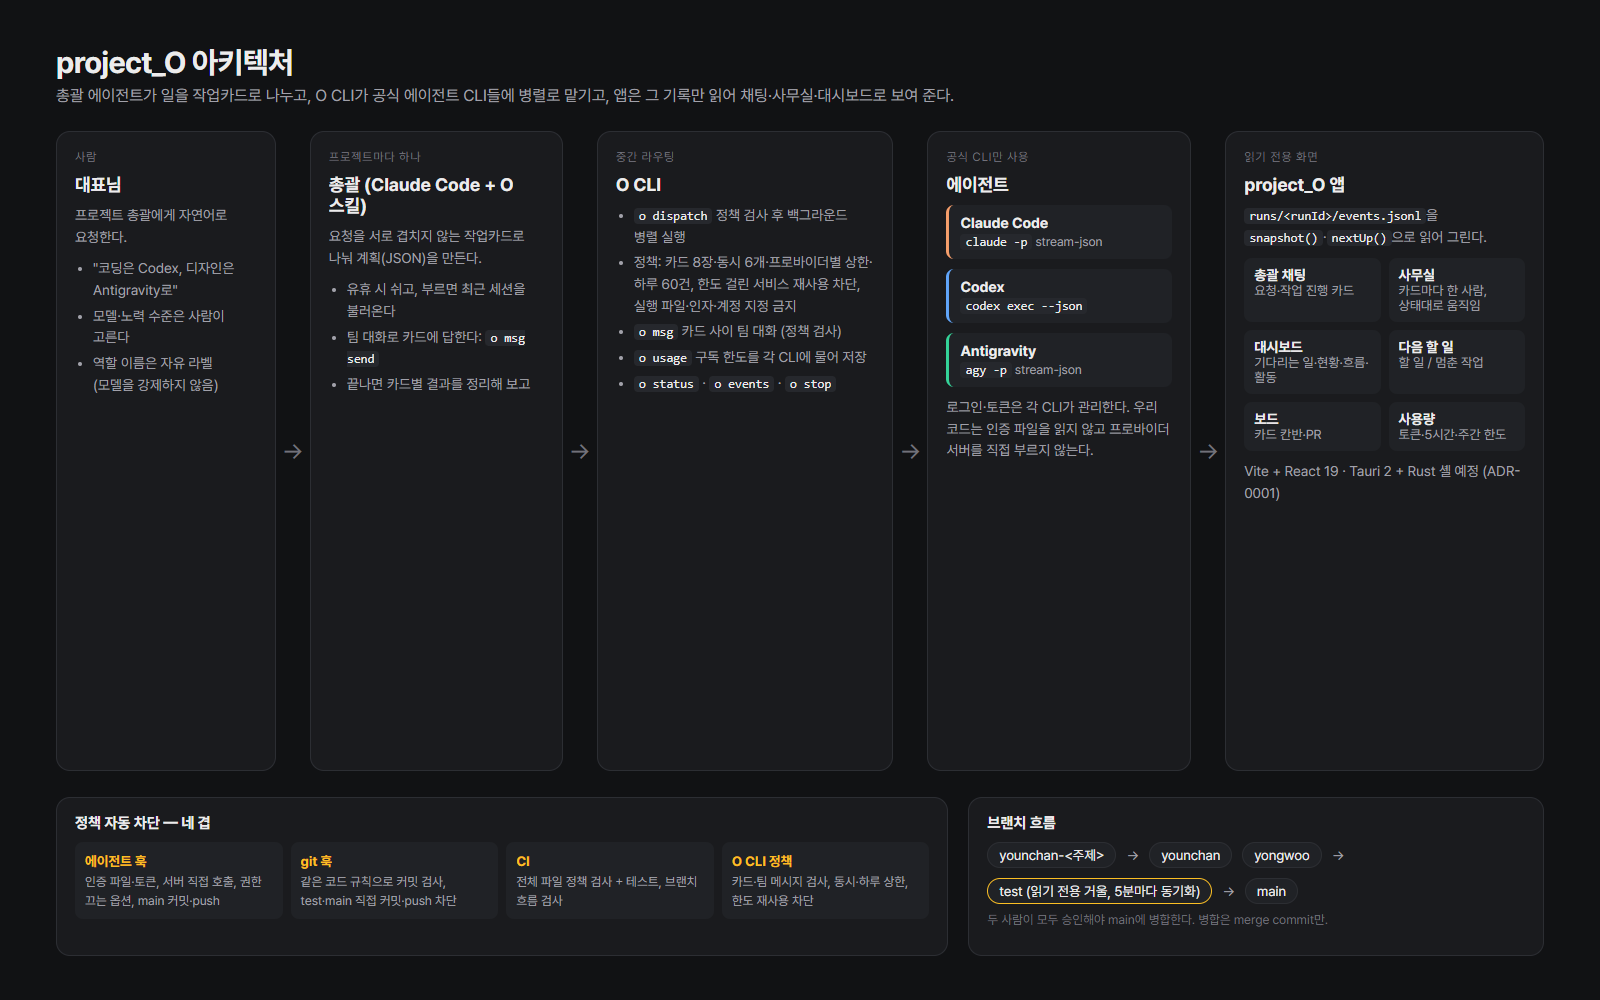
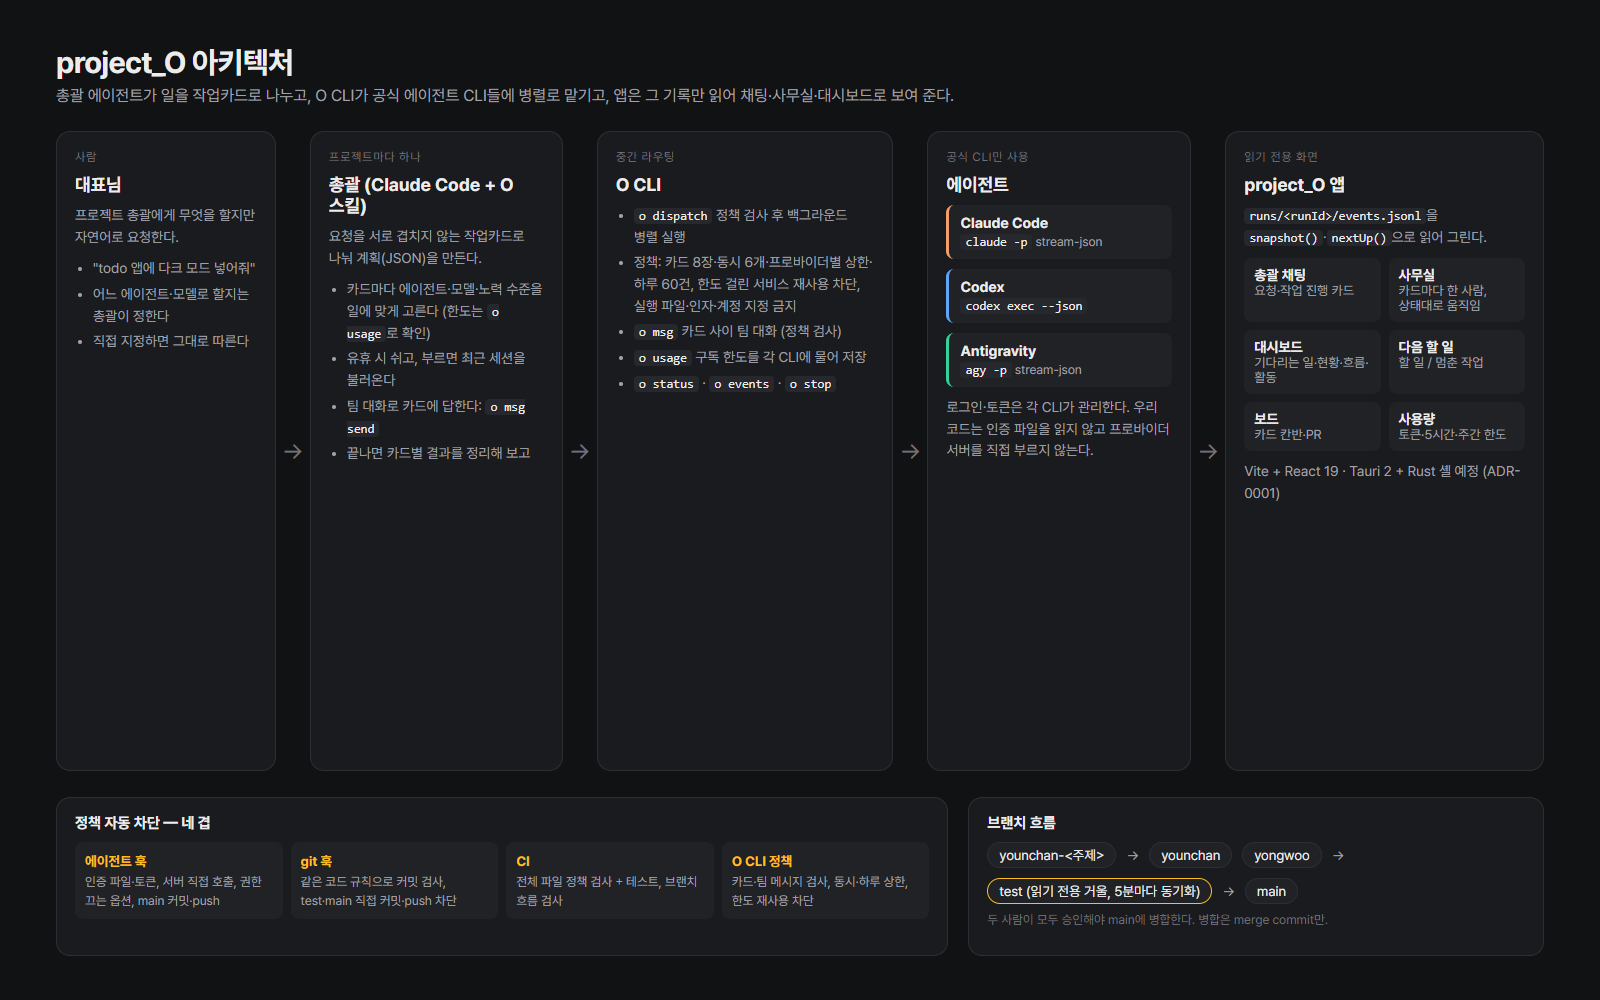
docs: 에이전트·모델은 총괄이 정한다 (D5 정정)
- O 스킬: 카드마다 에이전트·모델·노력 수준을 총괄이 일에 맞게 고른다. 사용자가 지정하면 그대로 따르고, o usage로 한도를 보고 고른 이유를 보고한다
- DESIGN.md D5, 아키텍처 그림, 캡처 02(모델을 말하지 않는 요청)를 같은 내용으로 고침

Changed region(s): [[0.2188, 0.279, 0.3438, 0.465], [0.0312, 0.217, 0.1562, 0.403], [0.125, 0.186, 0.1562, 0.217]]

diff --git a/docs/screenshots/architecture.html b/docs/screenshots/architecture.html
@@ -53,11 +53,11 @@
     <section class="box">
       <span class="tag">사람</span>
       <h2>대표님</h2>
-      <p>프로젝트 총괄에게 자연어로 요청한다.</p>
+      <p>프로젝트 총괄에게 무엇을 할지만 자연어로 요청한다.</p>
       <ul>
-        <li>"코딩은 Codex, 디자인은 Antigravity로"</li>
-        <li>모델·노력 수준은 사람이 고른다</li>
-        <li>역할 이름은 자유 라벨 (모델을 강제하지 않음)</li>
+        <li>"todo 앱에 다크 모드 넣어줘"</li>
+        <li>어느 에이전트·모델로 할지는 총괄이 정한다</li>
+        <li>직접 지정하면 그대로 따른다</li>
       </ul>
     </section>
     <div class="arrow">→</div>
@@ -66,6 +66,7 @@
       <h2>총괄 (Claude Code + O 스킬)</h2>
       <p>요청을 서로 겹치지 않는 작업카드로 나눠 계획(JSON)을 만든다.</p>
       <ul>
+        <li>카드마다 에이전트·모델·노력 수준을 일에 맞게 고른다 (한도는 <code>o usage</code>로 확인)</li>
         <li>유휴 시 쉬고, 부르면 최근 세션을 불러온다</li>
         <li>팀 대화로 카드에 답한다: <code>o msg send</code></li>
         <li>끝나면 카드별 결과를 정리해 보고</li>

diff --git a/skills/o/SKILL.md b/skills/o/SKILL.md
@@ -1,6 +1,6 @@
 ---
 name: o
-description: Split a multi-part request into work cards and hand them to agent CLIs (Codex, Antigravity, Claude) through O CLI, let the cards talk to each other and to you on the run's team channel, then watch and summarize the results. Use when the user asks to run parts of a project in parallel on different models or CLIs, or names providers/models per task.
+description: Split a multi-part request into work cards and hand them to agent CLIs (Codex, Antigravity, Claude) through O CLI, let the cards talk to each other and to you on the run's team channel, then watch and summarize the results. Use when the user asks to split project work across agents or run parts in parallel; the lead picks the agent, model and effort per card unless the user names them.
 ---
 
 # O — 작업카드 분배
@@ -24,7 +24,11 @@ description: Split a multi-part request into work cards and hand them to agent C
 }
 ```
 
-- `provider`: `claude` | `codex` | `agy`(Antigravity CLI). 모델은 **사용자가 정한 것을 그대로** `model`에 넣고, 정하지 않았으면 비워 둔다(각 CLI 기본 모델). 작업 종류로 모델을 고르지 않는다.
+- `provider`: `claude` | `codex` | `agy`(Antigravity CLI). **카드마다 어느 에이전트·모델·노력 수준(`effort`)으로 할지는 총괄이 일에 맞게 정한다.** 사용자는 무엇을 할지만 말하면 된다.
+  - 사용자가 특정 에이전트나 모델을 말한 카드는 그대로 따른다.
+  - 고르기 전에 `o usage`로 구독 한도를 보고, 한도에 가까운(90% 이상) 서비스는 피한다. 동시 실행 상한(Claude 3·Codex 3·Antigravity 2)을 넘지 않게 나눈다.
+  - 모델 이름은 그 CLI가 받는 것만 쓴다. 확실하지 않으면 `model`을 비워 CLI 기본 모델에 맡기고 `effort`로만 조절한다.
+  - 사용자에게 전달을 보고할 때 카드마다 왜 그 에이전트·모델을 골랐는지 한 줄씩 적는다.
 - `role`은 선택 사항인 사람용 이름표다("코딩", "검토" 등). 모델이나 권한과 아무 관계가 없다. 없으면 화면에 카드 id로 보인다.
 - 허용 필드는 `id, provider, task, role, model, effort`뿐이다. 실행 파일·인자·환경변수·계정은 넣을 수 없다.
 - `task`는 짧고 자족적으로 쓴다: 목표, 범위(파일·폴더), 완료 기준. 다른 카드와 주고받아야 할 것이 있으면 task에 적는다("끝나면 ui 카드에게 바꾼 파일을 알려 줄 것").

diff --git a/docs/DESIGN.md b/docs/DESIGN.md
@@ -59,7 +59,7 @@
 | D2 | Orchestrator 코드 이관 범위 | (a) `src/core` 순수 로직만 가져오기 (b) 앱 전체를 포크 (c) 새로 작성 | (a) — 화면은 새 정보구조에 맞춰 다시 짠다 |
 | D3 | 에이전트 연결 방식 | TUI 스크래핑 / 터미널 임베드 / 공식 CLI 구조화 출력 / API 키 직접 호출 | 공식 CLI 구조화 출력 — Claude `claude -p --input-format stream-json --output-format stream-json`, Codex `codex app-server`, Gemini `gemini -p --output-format stream-json`. 세부는 PoC로 확인 (§5) |
 | D4 | 여러 계정 격리 방식 | 계정별 설정 폴더 환경변수 / OS 사용자 분리 / 기타 | 설정 폴더 격리 PoC 먼저 |
-| D5 | 라우팅 | 수동 선택 / 역할 프리셋(설계·조사·정리) / 자동 분류 | 사용자가 정한 모델을 그대로 쓴다. 역할(`role`)은 선택 이름표일 뿐 모델을 고르거나 제한하지 않는다(2026-11-02 대표님 결정) |
+| D5 | 라우팅 | 수동 선택 / 역할 프리셋(설계·조사·정리) / 자동 분류 | 총괄이 카드마다 에이전트·모델·노력 수준을 일에 맞게 정한다(자동 분배). 사용자가 특정 에이전트·모델을 말하면 그대로 따른다. 역할(`role`)은 선택 이름표일 뿐 모델을 고르거나 제한하지 않는다(2026-11-02 대표님 결정·정정) |
 | D6 | 첫 화면·최상위 구조 | Workspace 우선 / Control 우선 / 두 모드 전환 | 두 모드 전환, 첫 화면은 합의 |
 | D7 | MVP 범위 | 아래 §6 | 합의 |
 | D8 | 총괄 에이전트 형태 | (a) 앱 코드의 규칙 라우터 (b) 공식 CLI 세션이 O 스킬로 `o dispatch` 호출 (c) API 키 모델 | (b)로 구현 시작 (`src/cli/o.ts`, `skills/o`). 앱이 구독 토큰으로 직접 계획 요청을 보내는 방식은 금지 (§8) |
